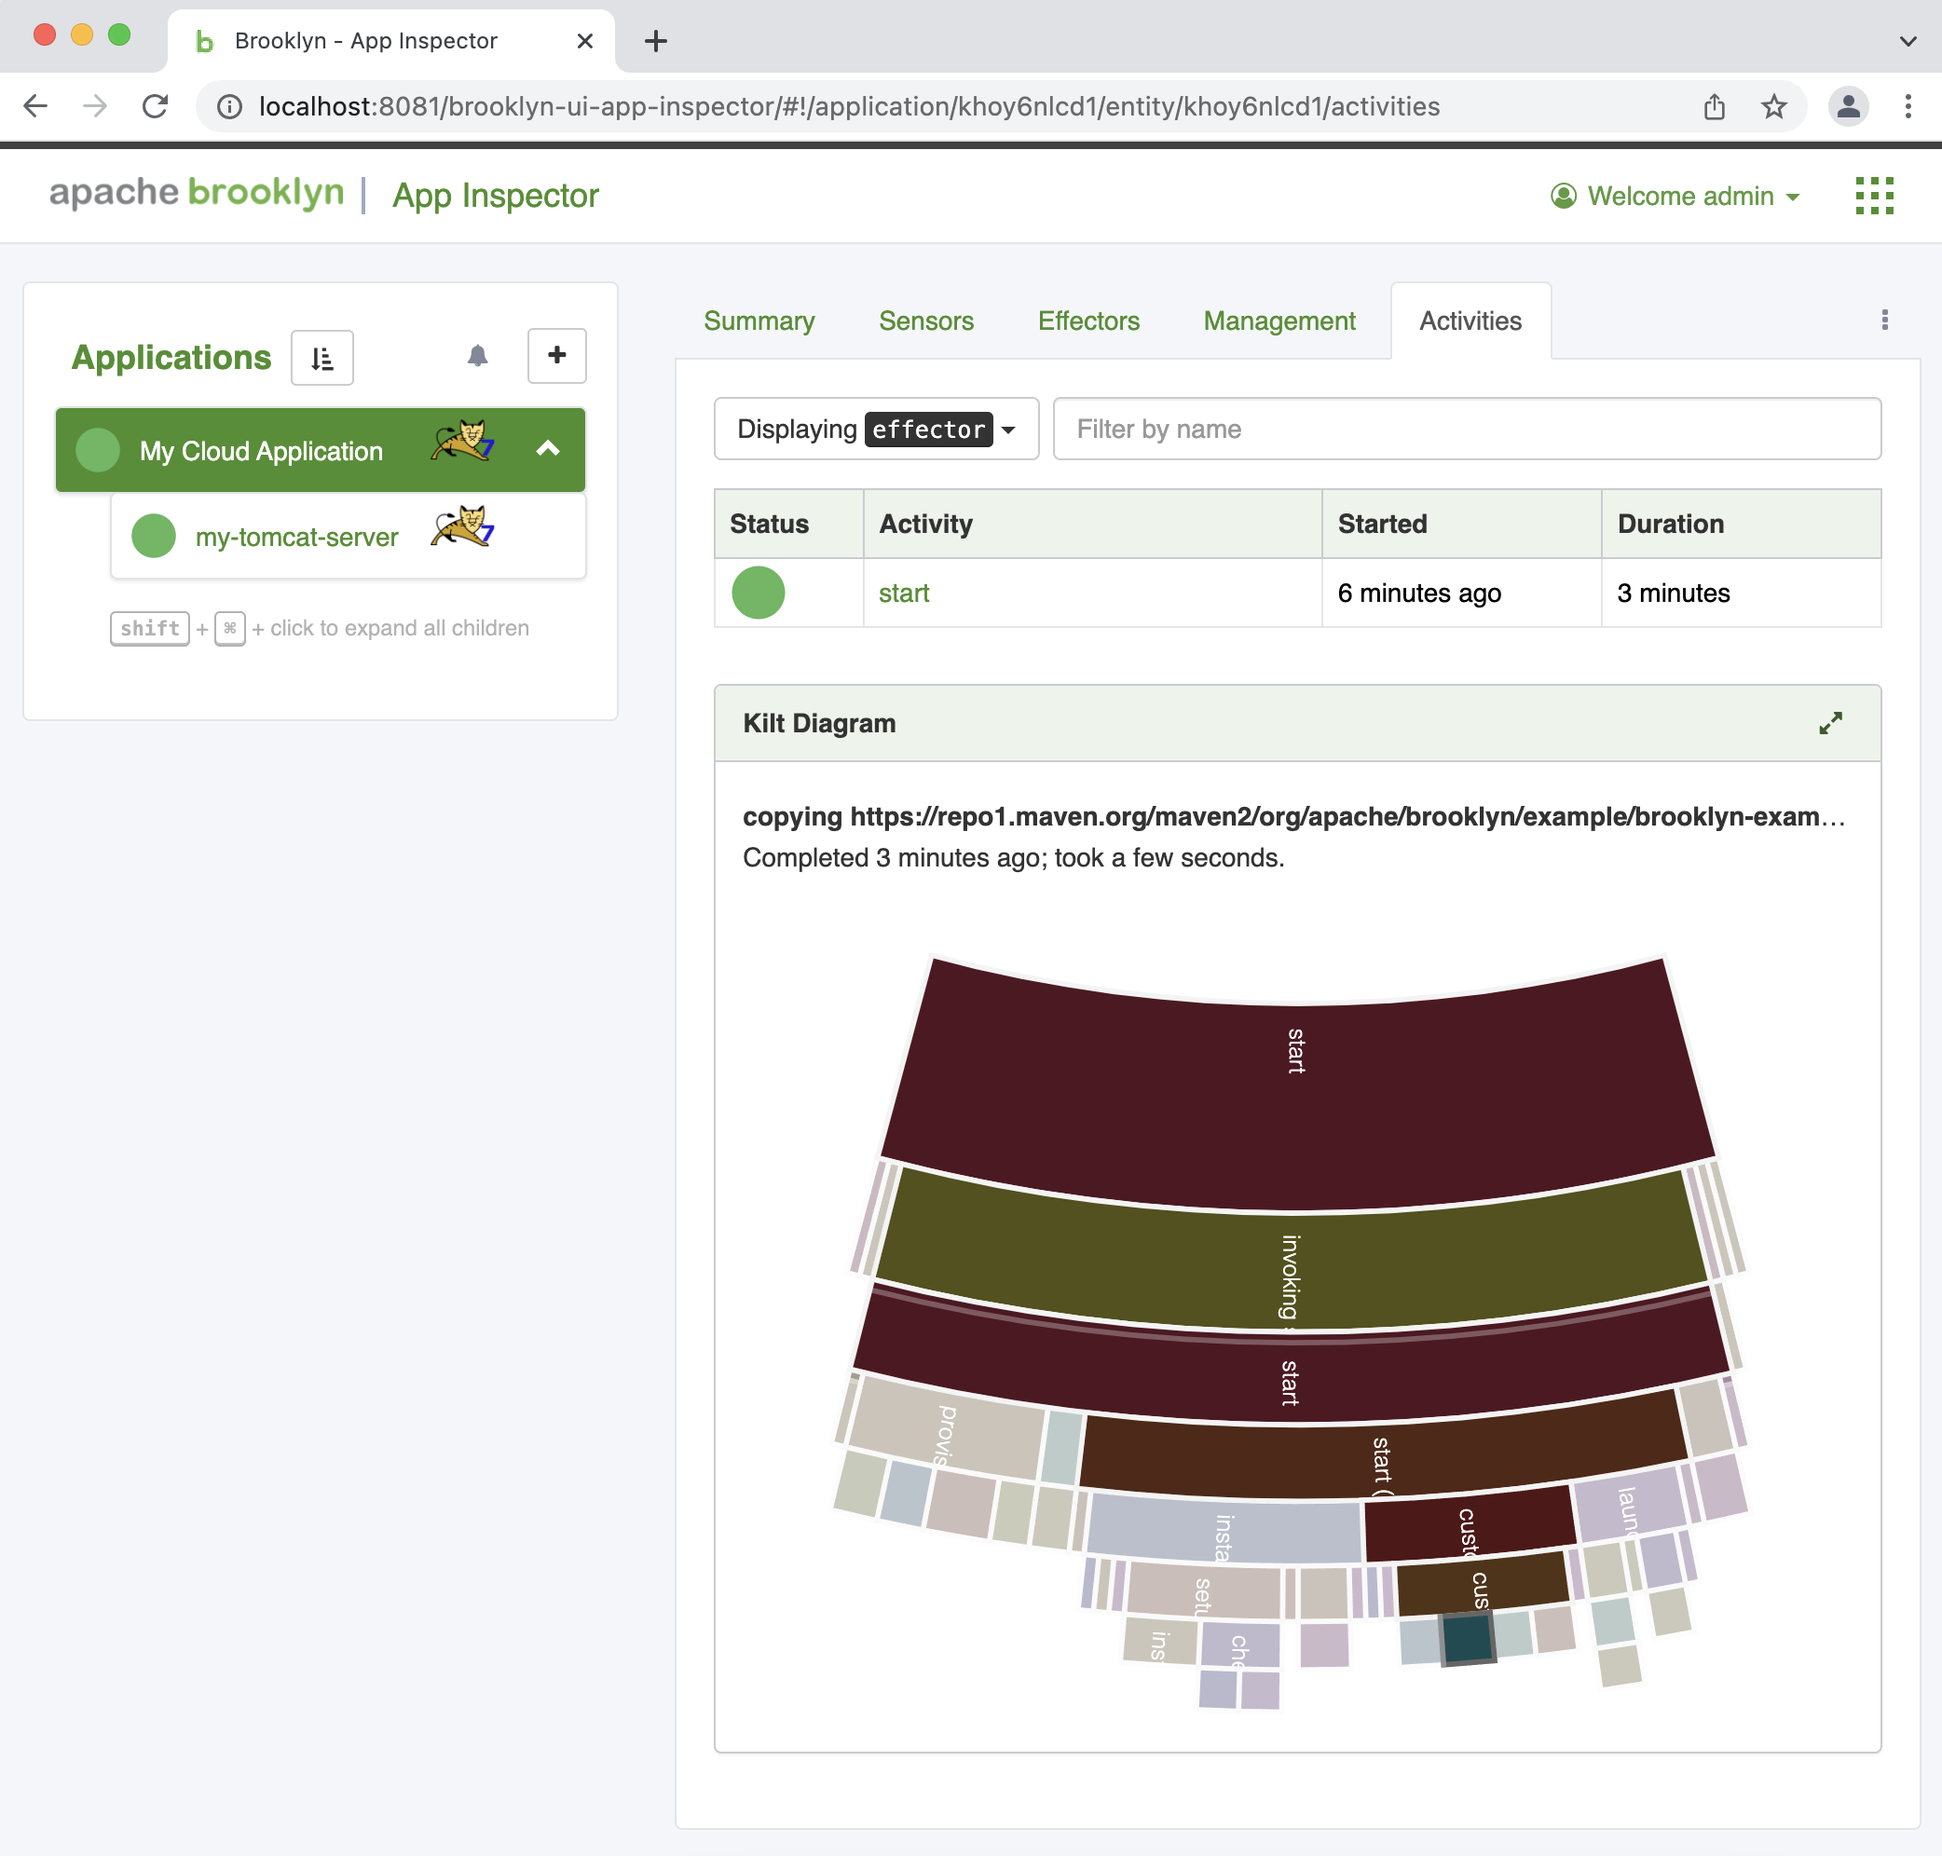
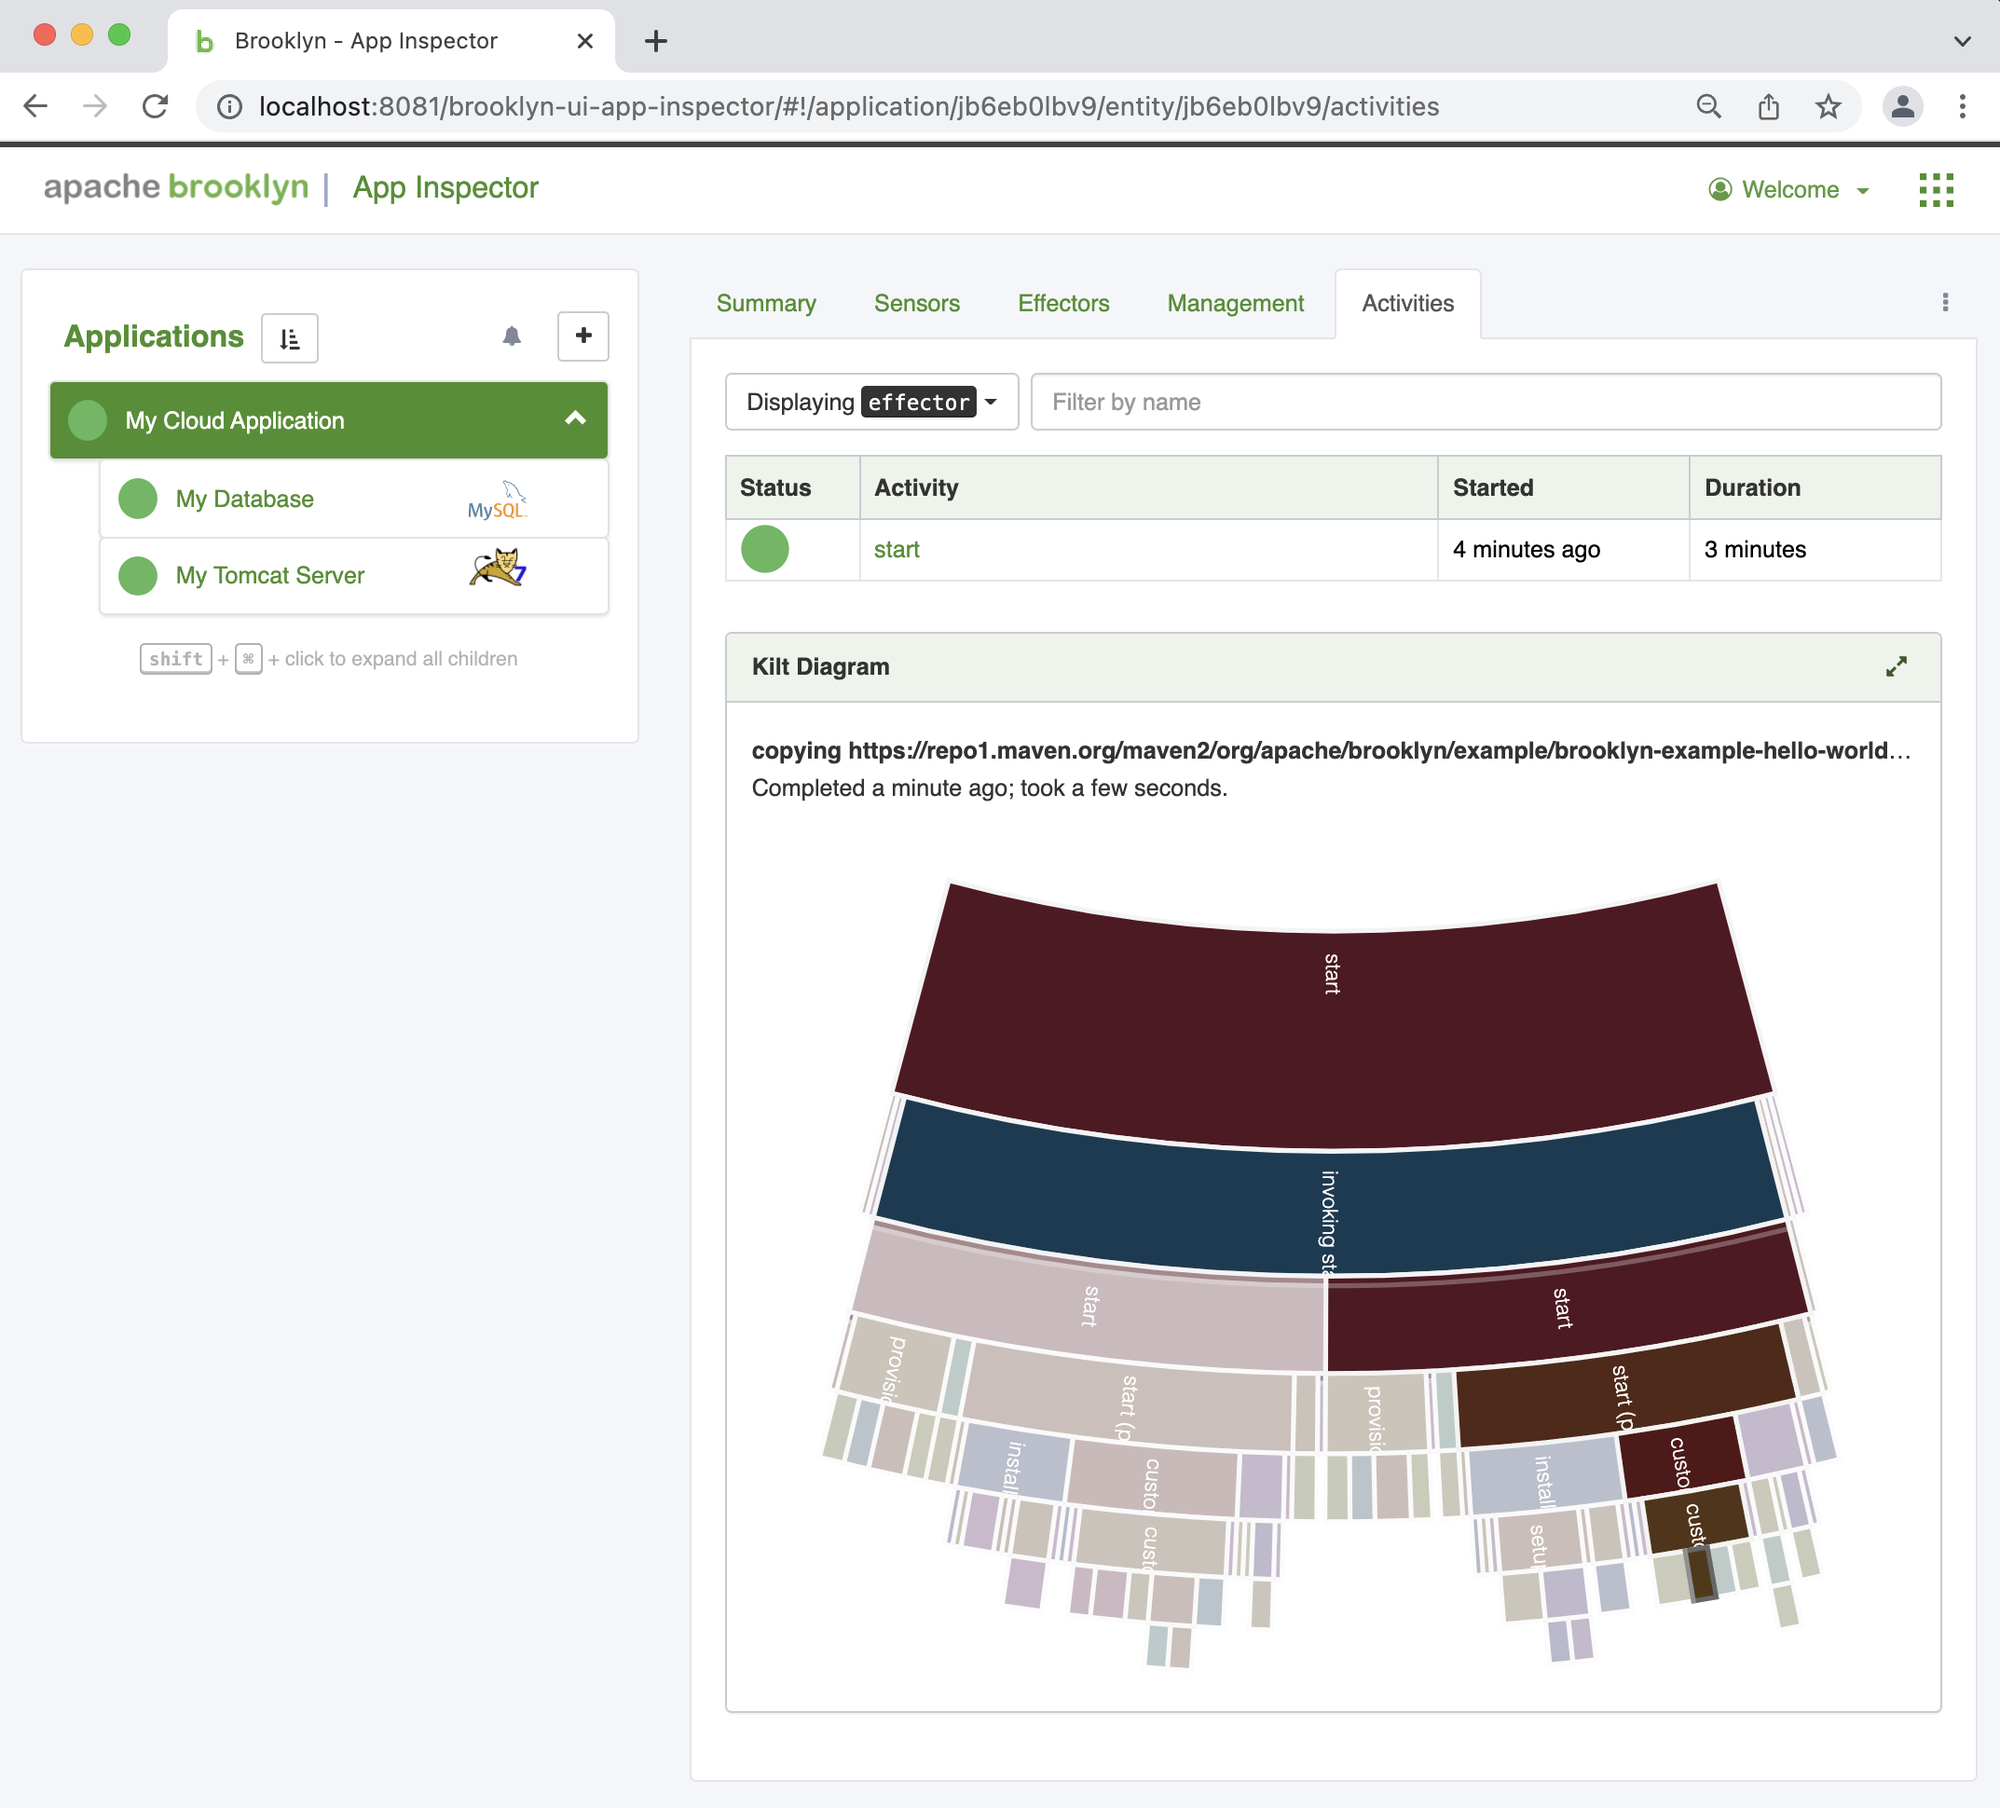
Add MySQL node into brooklyn example and update screenshots

diff --git a/docs/cloud-computing-tools.md b/docs/cloud-computing-tools.md
@@ -40,16 +40,27 @@ Create `my-application.brooklyn.yaml`:
 name: My Cloud Application
 location: my-aws-eu-west-1-location
 services:
+# MySQL node
+- type: org.apache.brooklyn.entity.database.mysql.MySqlNode
+  id: mysql-node
+  name: My Database
+  brooklyn.config:
+    datastore.creation.script.url: https://raw.githubusercontent.com/apache/brooklyn-library/master/examples/simple-web-cluster/src/main/resources/visitors-creation-script.sql
+  pre.install.command: sudo apt-get install -y libncurses5 # Might be missing on some VMs
+# Tomcat node
 - type: org.apache.brooklyn.entity.webapp.tomcat.TomcatServer
-  name: my-tomcat-server
+  name: My Tomcat Server
+  id: tomcat-node
   brooklyn.config:
     wars.root: https://repo1.maven.org/maven2/org/apache/brooklyn/example/brooklyn-example-hello-world-sql-webapp/0.12.0/brooklyn-example-hello-world-sql-webapp-0.12.0.war
+    java.sysprops:
+      brooklyn.example.db.url: $brooklyn:formatString("jdbc:%s%s?user=%s&password=%s", $brooklyn:component("mysql-node").attributeWhenReady("datastore.url"), "visitors", "brooklyn", "br00k11n")
 ```
 
 Deploy application with the CLI:
 
 ```shell
-$ br catalog add my-location.brooklyn.yaml
+$ br deploy my-application.brooklyn.yaml
 ```
 
 Login into Brooklyn web console and inspect application deployment progress:

diff --git a/docs/cloud-applications.md b/docs/cloud-applications.md
@@ -1,3 +1,3 @@
 # Cloud Applications to Try
 
-* *IN PROGRESS...*
+* *TBD*
